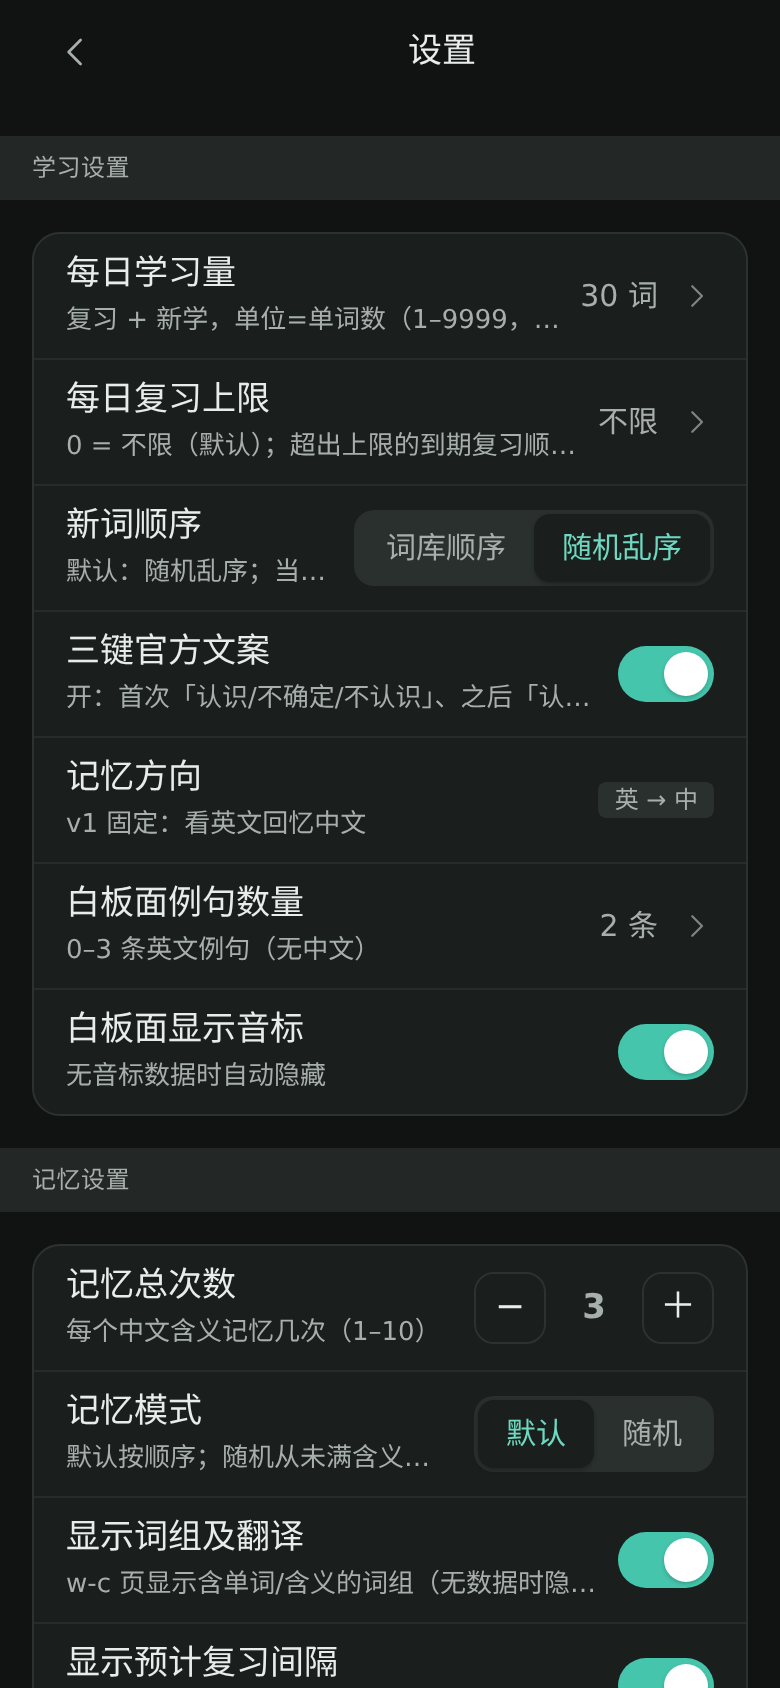
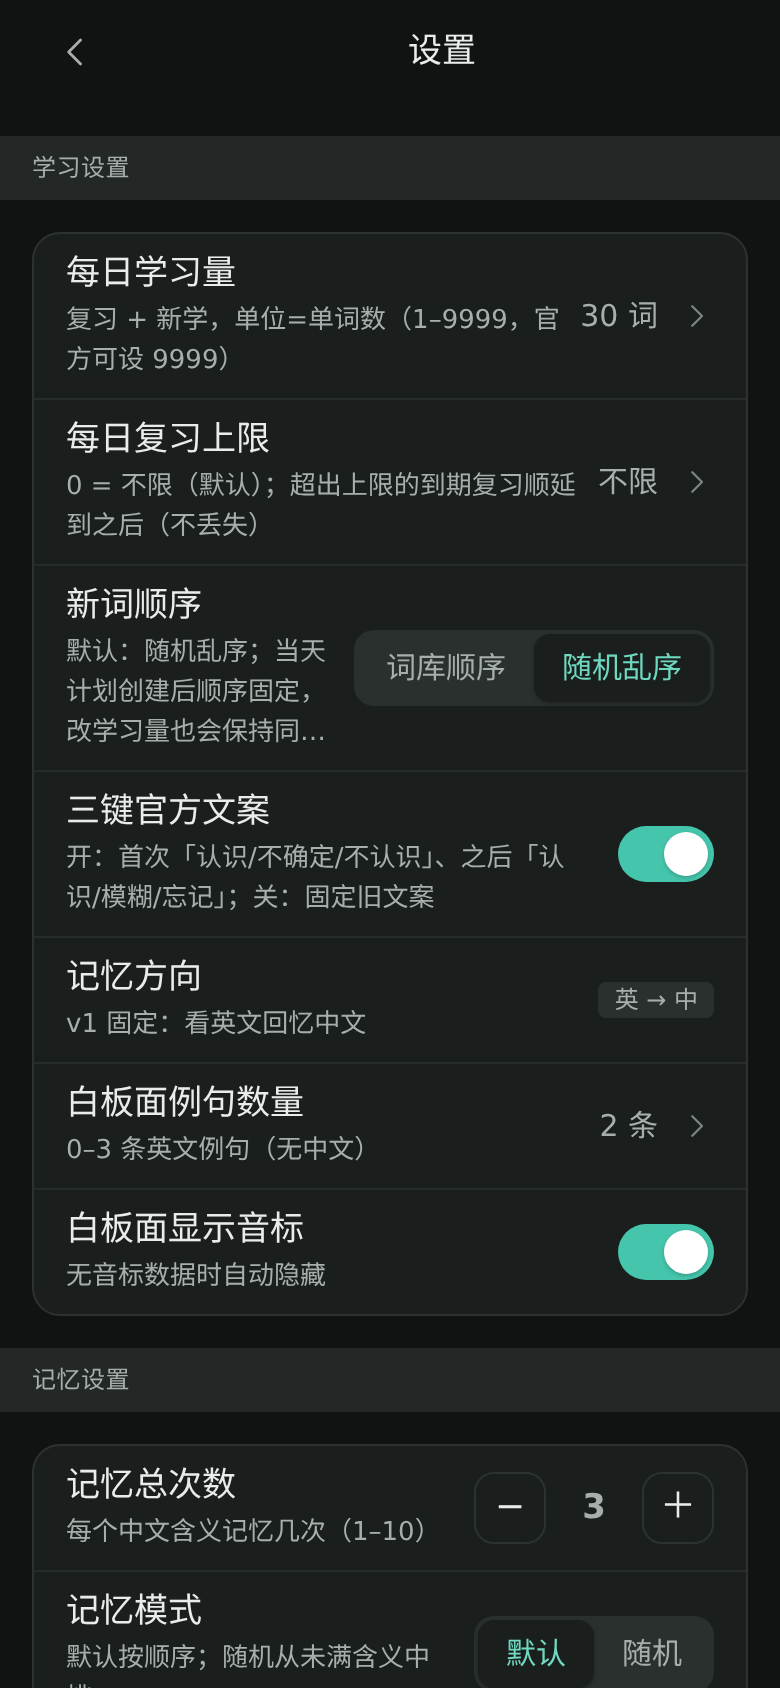
docs: README 更新新功能（本义链/AI 补内容/内容包）+ 重拍 0.3.34 演示截图

diff --git a/README.md b/README.md
@@ -38,10 +38,18 @@
 |---|---|---|
 | ![](docs/assets/demo/05-today-words.png) | ![](docs/assets/demo/06-settings.png) | ![](docs/assets/demo/07-stats.png) |
 
+| 本义/引申链（顶部本义 + 每 c 链） | AI 补内容（可选） | 内容包管理 |
+|---|---|---|
+| ![](docs/assets/demo/03-annotations.png) | ![](docs/assets/demo/08-ai-generate.png) | ![](docs/assets/demo/09-content-packs.png) |
+
 ## 功能一览
 
 - **学习**：每日队列（复习 + 新学预算）、三键反馈（认识 / 模糊 / 忘记）、当日进度与回炉、随时续学；
 - **单词详情**：音标 / 多含义 / 例句 / 词组；每个含义可点击标记「不熟悉」；
+- **本义 / 引申链**：每个单词标注 1–n 个「本义」（集合/多值），每个中文含义显示「本义 → 引申」链；本义区展示含义、说明与词源；AI 生成内容标注「AI 推演，仅供参考」；
+- **AI 补内容（可选）**：接入你自己的 OpenAI 兼容服务（如 DeepSeek），按「今日/词库/当前词/指定含义/选词」范围生成例句、词组、助记、本义/引申链；支持仅缺失/追加/覆盖/替换本义、逐条审核、草稿断点续跑；Key 只存本机；
+- **内容包管理**：导入 `.pack.json`（例句/词组/助记/本义/混合），支持重新应用、清理重复、删除（可选移除已应用内容）、重置本义数据；内容包只写本地，不影响内置词库；
+- **助记（w→c）**：每条助记绑定「单词 → 指定中文含义」，按拼写/构词/发音与含义桥接，减少「记住单词却想不起这个 c」；
 - **w→c 多轮记忆**：单词 → 含义的全屏卡片，每个含义独立计数（默认 3 次），支持顺序/随机两种模式；
 - **今日单词页**：复习 / 新学两分区（已学/未学、评分标签），点击词可看详情；
 - **复习上限**：可设每日复习上限，超出部分顺延（不丢失），并显示积压提示；
@@ -65,7 +73,9 @@
 5. **续学/回退/改判/任意学习量/词组按含义过滤**：当天计划持久化（退出重进同一队列）；
    回退后可改判（保留审计）；学习量 1–9999；w-c 页只显示**当前含义**有归属的词组（无归属的不硬猜，直接隐藏）。
 6. **可迁移的完整学习状态**：导出迁移包包含记忆状态、不熟悉度、计划数据；换机/备份可完整恢复。
-7. **本地优先 + PWA/APK 双形态**：学习数据只在本地；PWA 可离线安装；可选自建 Android WebView 壳。
+7. **本义 → 引申的含义链**：不是给每个 c 贴一个释义，而是标注 1–n 个「本义」（可多值），并把每个 c 映射到对应本义、渲染「本义 → 引申」链；同一本义可服务多个 c，链缺失时明确留空，不用模型猜测填充。
+8. **AI 补内容只补缺、可审核、可断点**：按范围/类型/模式生成，只把勾选条目写入本地内容包；支持草稿断点续跑、追加/覆盖/替换本义、逐条拒绝记忆；不把 Key 或学习数据上传。
+9. **本地优先 + PWA/APK 双形态**：学习数据只在本地；PWA 可离线安装；可选自建 Android WebView 壳。
 
 > 说明：以上「创新点」指**本项目的工程实现与产品取舍**；其中与官方一致的部分仅限公开可观察的交互规则，
 > 计算数值为近似，详见 [docs/FEATURES-COMPLIANCE.md](docs/FEATURES-COMPLIANCE.md)。
